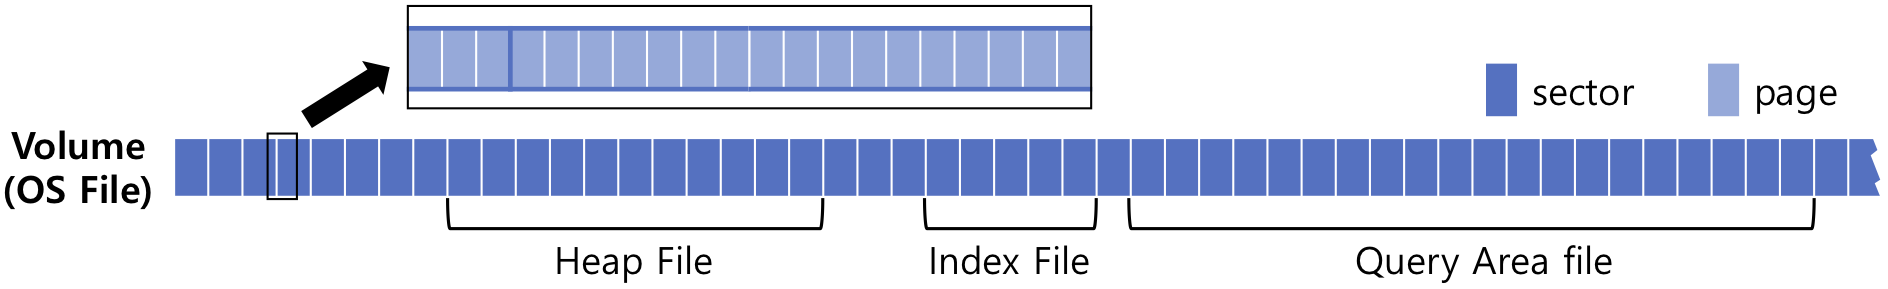
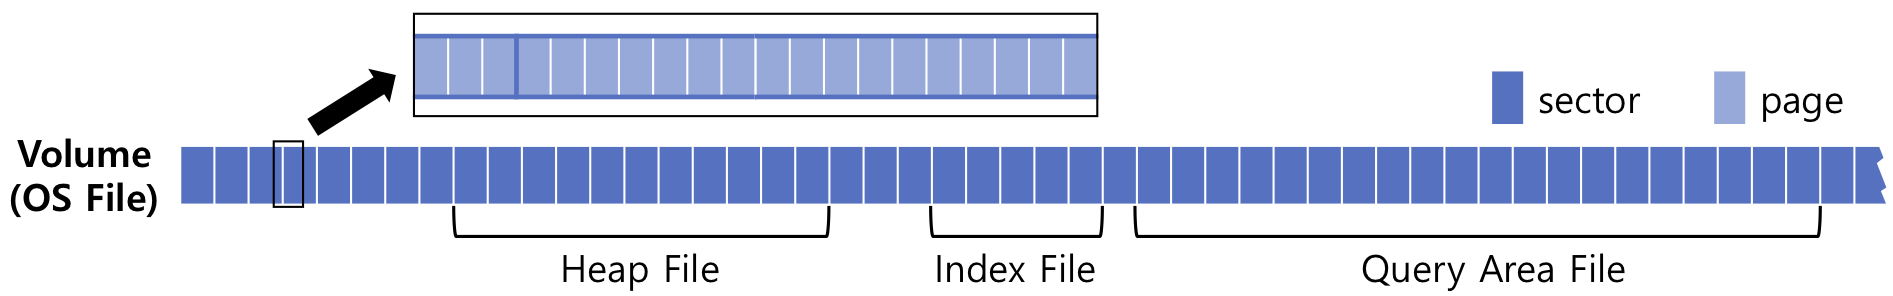
DFM1: some correction (#3)
* Modify: DFM image-overview

* DFM-overview: Correct some spells, formatting

diff --git a/_posts/2019-06-12-disk-file-manager-1-overview.md b/_posts/2019-06-12-disk-file-manager-1-overview.md
@@ -17,7 +17,7 @@ summary:File/Disk Manager internal 1: overview
 
 &nbsp;
 
-### 용어정리
+### **용어정리**
 
 ------
 
@@ -57,7 +57,7 @@ summary:File/Disk Manager internal 1: overview
 
 그렇다고해서 영구볼륨의 데이터는 항상 보존되어야 하는 데이터만이 담기는 것은 아니며 임시데이터가 담길 수도 있다. 볼륨에 대한 개념적인 내용은 [큐브리드 메뉴얼](https://www.cubrid.org/manual/en/10.1/intro.html#database-volume-structure)을 참고하자.
 
-#### 볼륨은 언제만들어질까?
+##### 볼륨은 언제만들어질까?
 
  이해를 돕기위하여 볼륨의 생성이 언제 일어나는지를 알아보자. 영구볼륨이 생성되는 경우는 다음과 같다.
 
@@ -69,7 +69,7 @@ summary:File/Disk Manager internal 1: overview
 
 > 영구볼륨의 제거나 축소는 없고, deletedb를 통해서 전체 데이터베이스를 제거할때만 볼륨들이 모두함께 제거되는 것으로 보인다.
 
-#### 그렇다면 임시볼륨은?
+##### 그렇다면 임시볼륨은?
 
  쿼리중간결과등의 임시데이터는 임시볼륨에만 담길 수 있는 것은 아니다. 이러한 데이터들도 기본적으로 영구볼륨이 담기게 되며 영구볼륨에 공간이 부족해질 경우에 임시볼륨이 만들어져 데이터를 저장한다. 혹은 addvoldb를 사용하여 사용자가 직접 추가할 수도 있다. 이렇게 생성된 임시볼륨은 나중에 데이터베이스가 재시작될 때 모두 제거된다.
 
@@ -90,7 +90,7 @@ summary:File/Disk Manager internal 1: overview
 
 파일은 위의 두가지 분류 뿐만 아니라 파일의 목적에 따라 heap, btree, catalog등의 파일타입으로도 나눌 수 있다.
 
-#### Numerable 속성
+##### Numerable 속성
 
  파일은 Numerable 속성을 지닐 수 있다. 기본적으로 파일에 할당되는 페이지는 순서가 없다. 물리적으로 연속적인 페이지만을 할당받는 것은 아니며 여러 섹터에 흩어져 있는 페이지들을 할당받는다. 심지어 할당받은 각 페이지가 속한 섹터들도 연속적이지 않을 수 있으며 여러볼륨에 흩어져 있을 수도 있다. 이러한 페이지들에 논리적인 순서를 부여하는 속성을 numerable이라 한다. 이 속성을 지니면 파일에 할당된 페이지(정확히는 유저페이지만)들을 할당된 순서대로 인덱스를 통하여 접근할 수 있다. 이는 extensible hash나 external sorting의 경우에 유용하게 사용될 수 있다.
 
@@ -102,7 +102,7 @@ summary:File/Disk Manager internal 1: overview
 
  이번 글에서는 디스크매니저와 파일매니저에서 쓰이는 개념들에 대하여 정리하였다. 앞으로의 글에서는 이를 바탕으로 어떤 방식으로 이들이 관리되는지 자세히 알아본다. 이후 다룰 내용들은 다음과 같으며, 내용이 더 추가될 수 있다.
 
-#### To be posted
+##### To be posted
 
 1. 볼륨은 어떻게 관리될까? (볼륨헤더, 섹터테이블)
 2. 섹터 예약은 어떻게 이루어질까? (섹터 예약/해제, 디스크캐시)
